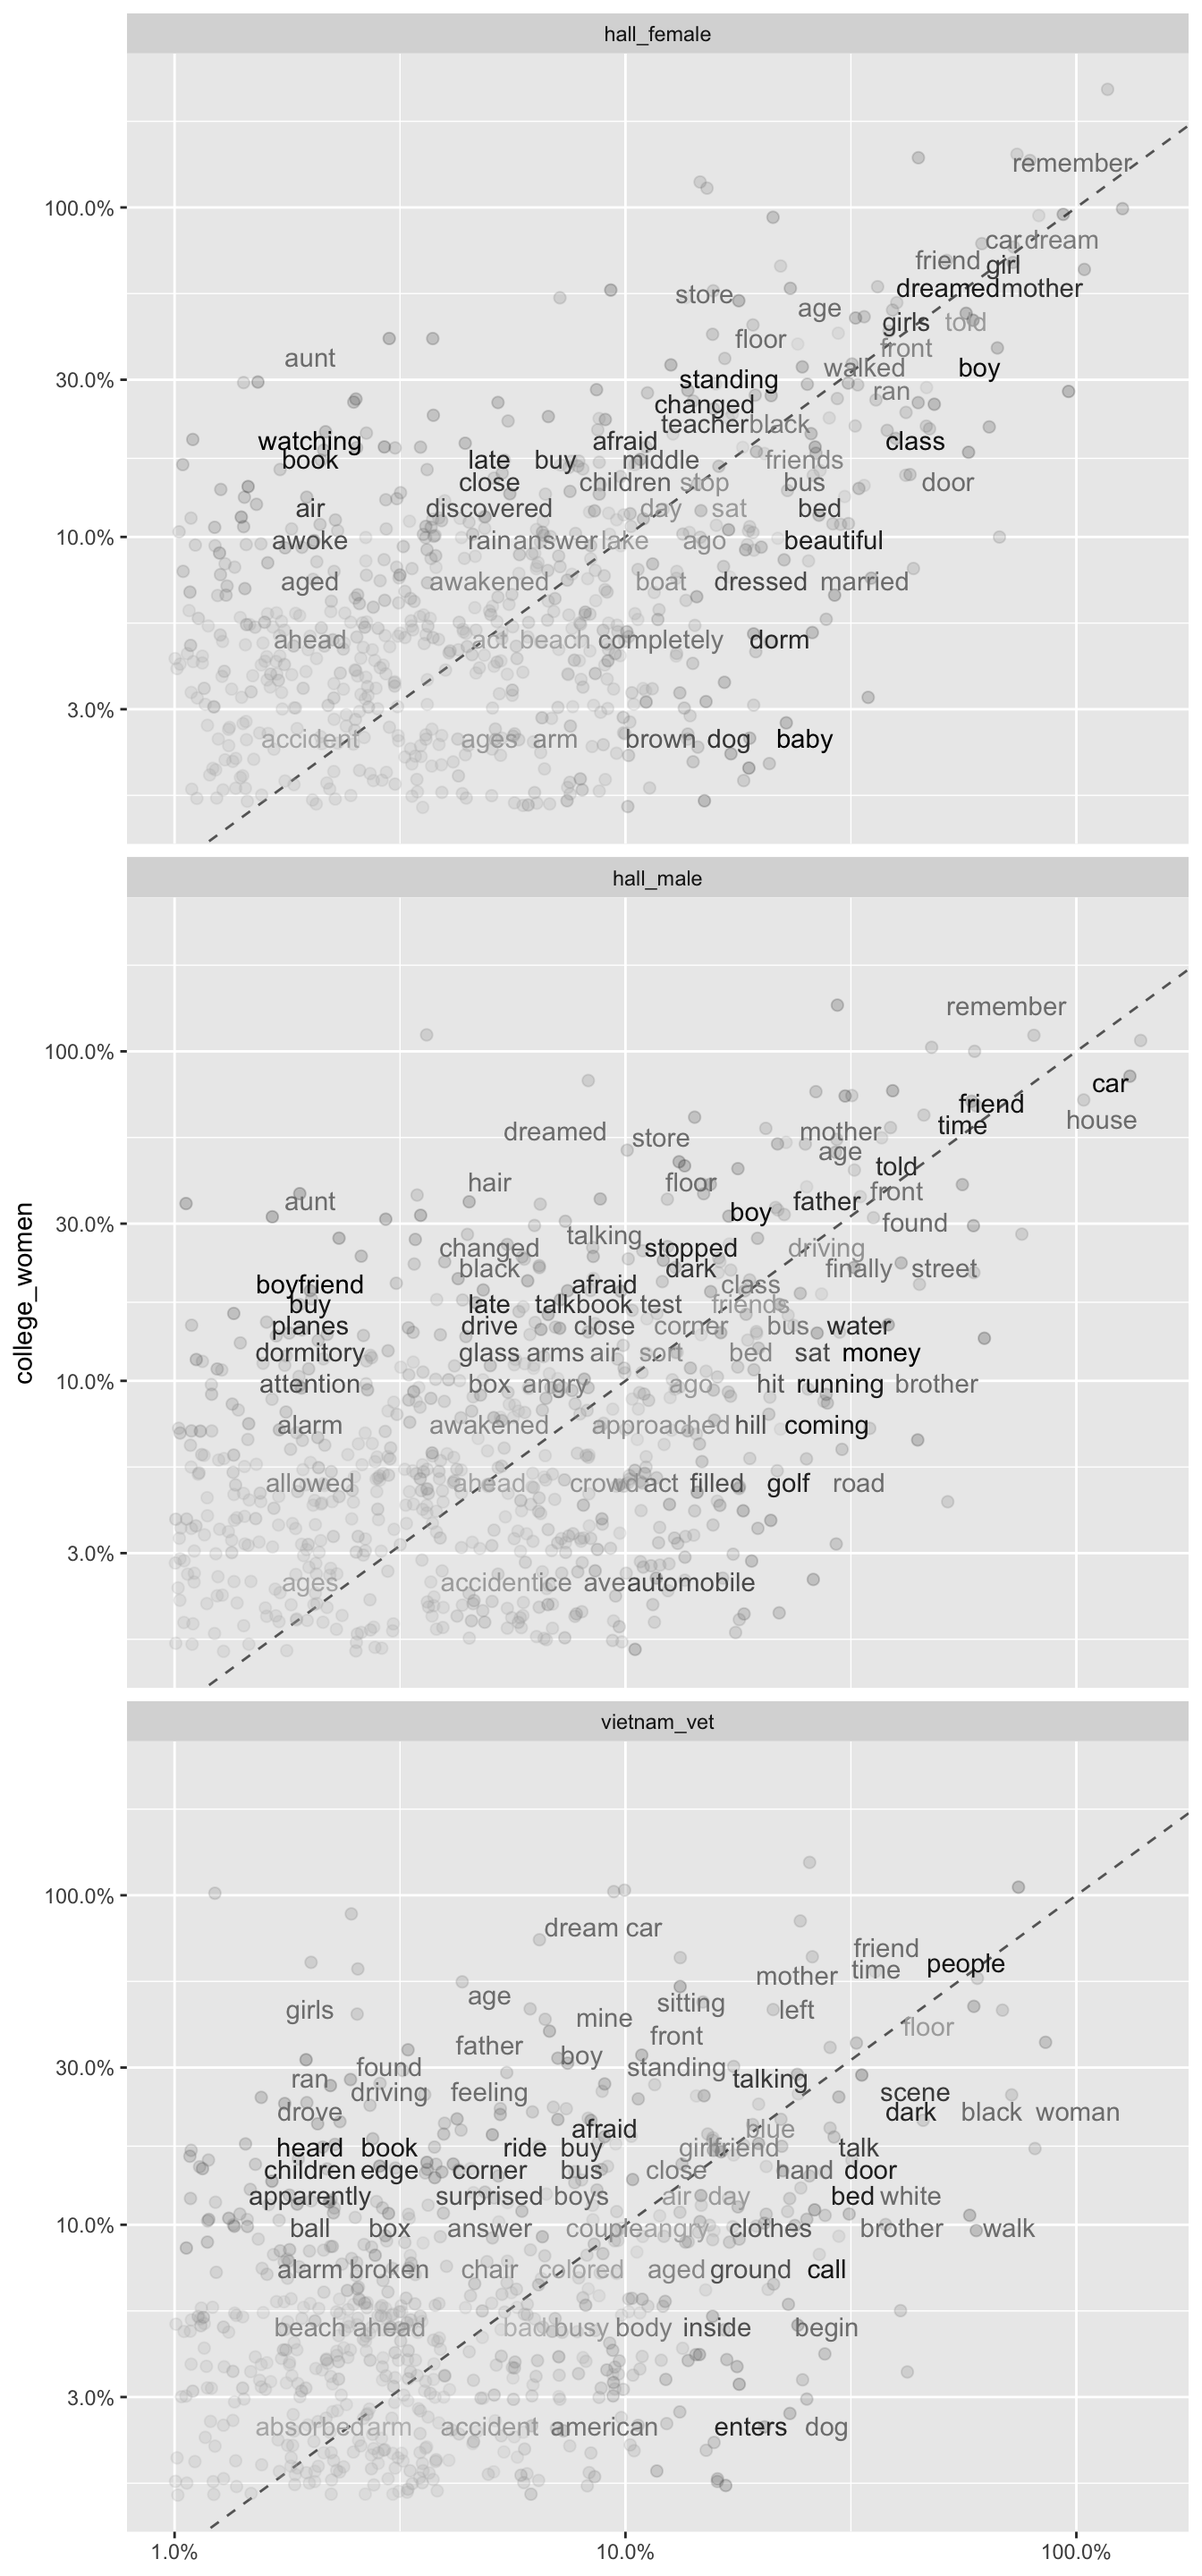
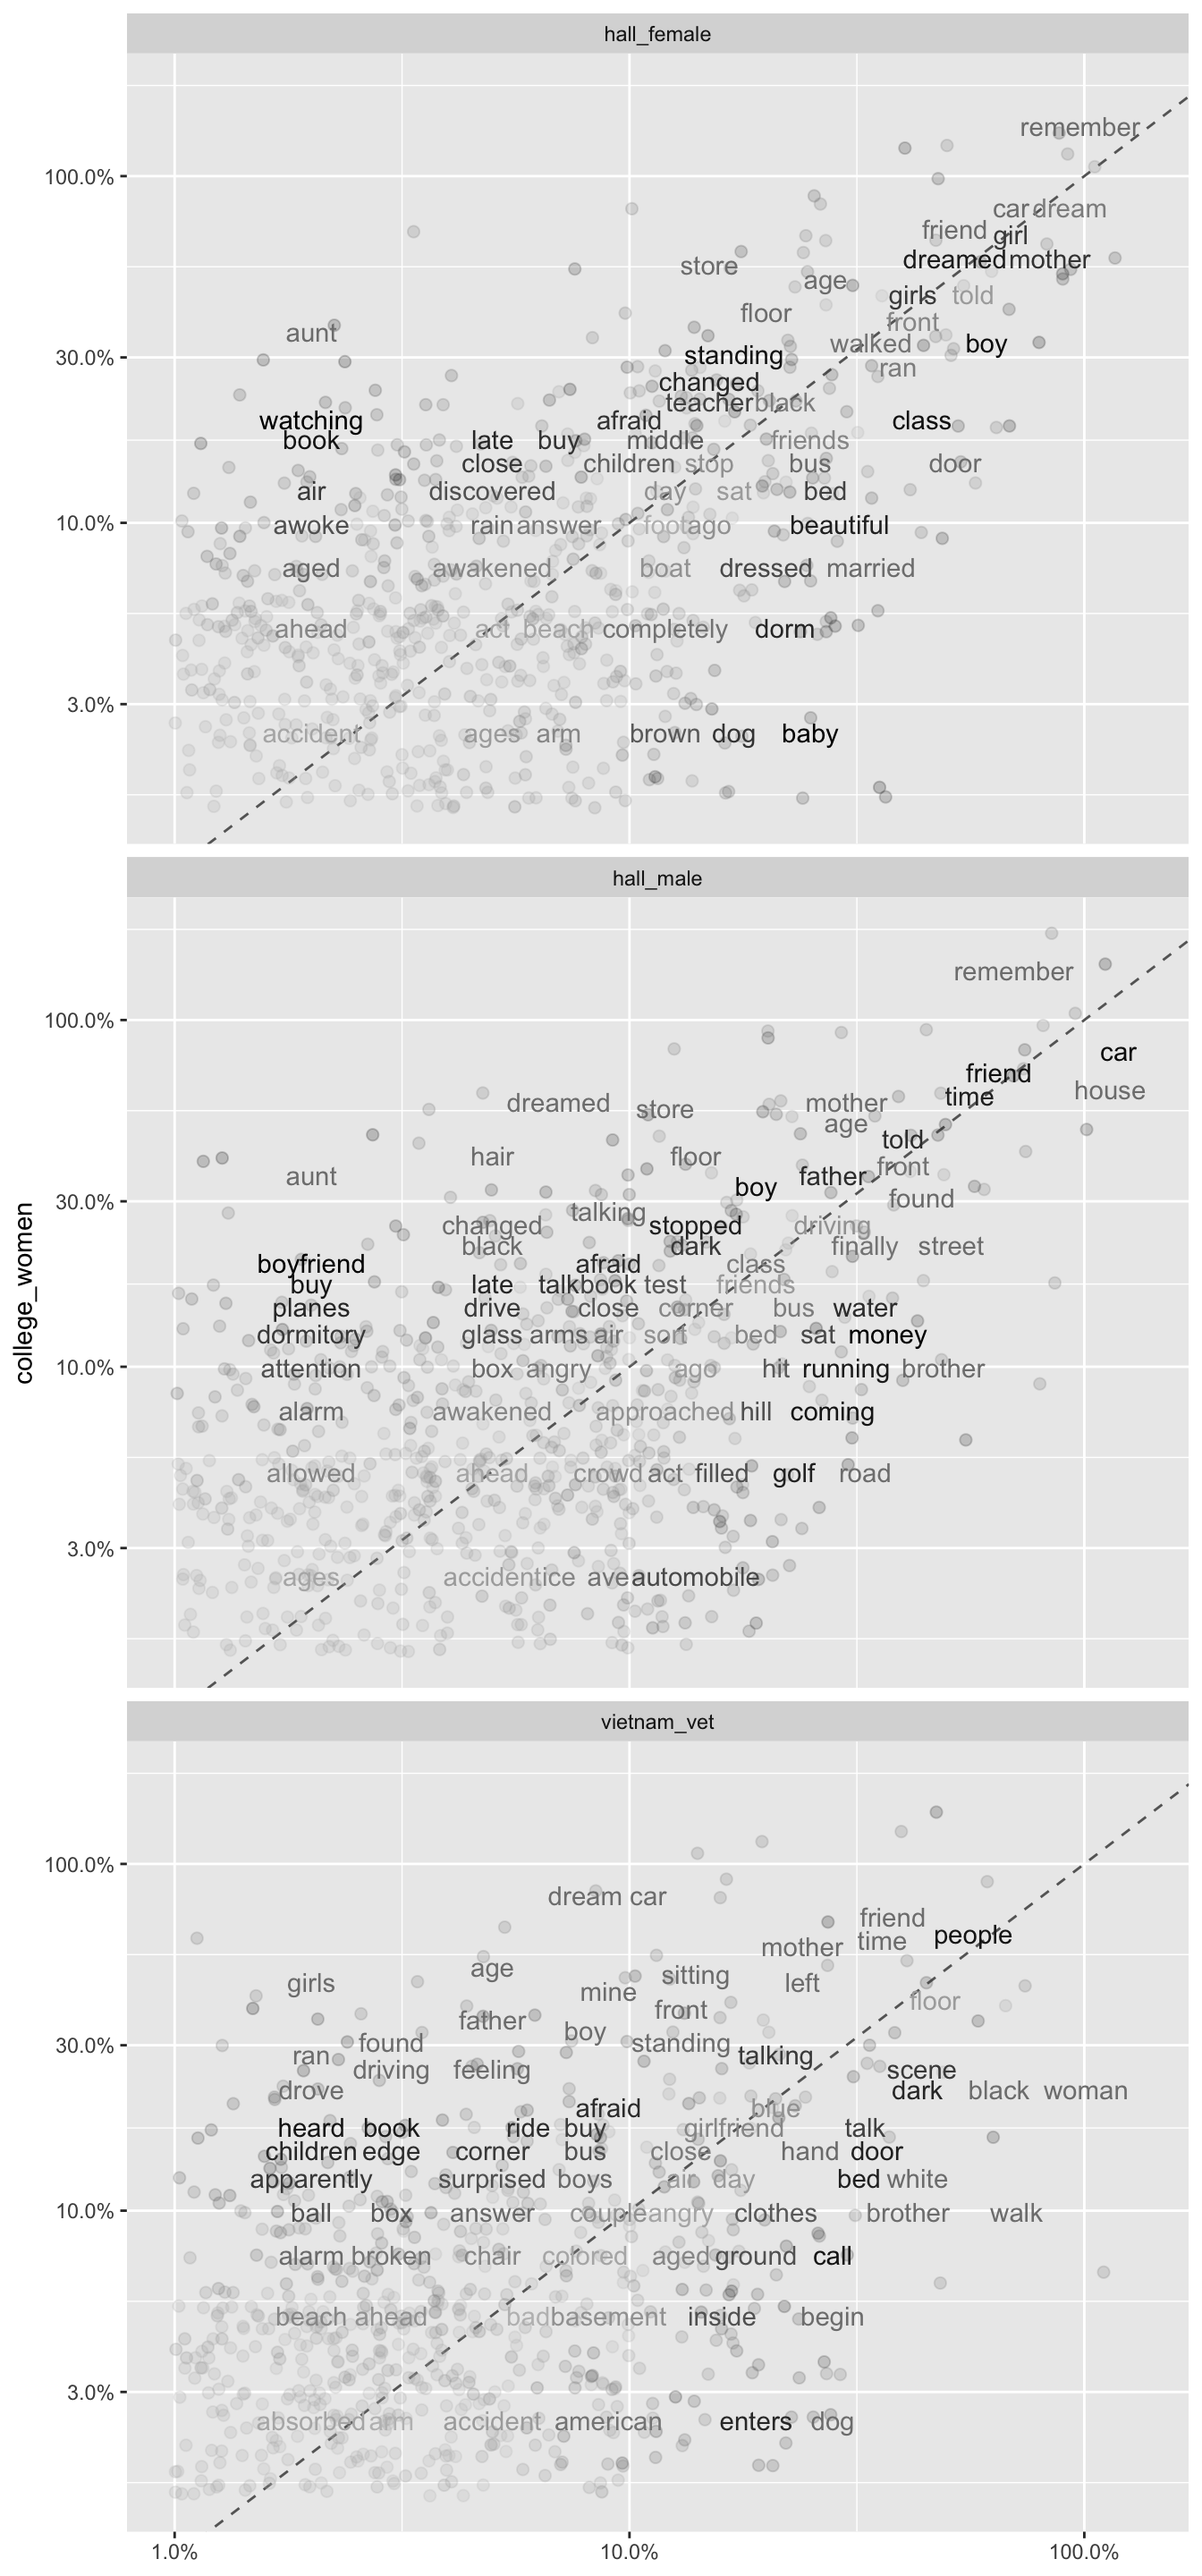
moved image to static folder

diff --git a/public/post/manipulating-text-data-from-dreams/index.html b/public/post/manipulating-text-data-from-dreams/index.html
@@ -547,17 +547,17 @@ df$sample &lt;- as.factor(df$sample)</code></pre>
 <pre class="r"><code>custom_view &lt;- function(x) data.frame(lapply(x, substr, 1, 56))
 car::some(df) %&gt;%
   custom_view()</code></pre>
-<pre><code>##           sample                                                    dream
-## 1  college_women I was standing with my family (mother &amp; father, ages 45 
-## 2  college_women This dream was a very disconnected one. It began when I 
-## 3    vietnam_vet I&#39;m in my old house on Highland Place. Outside, it&#39;s rai
-## 4    vietnam_vet I&#39;m an instructor at a civilian flight school, observing
-## 5    vietnam_vet In the country on a sunny day, I decide to walk down a s
-## 6    vietnam_vet I&#39;m in an enormous building, a sort of jail, with walls 
-## 7    vietnam_vet Having spent a long day at college, I&#39;m walking through 
-## 8    vietnam_vet I&#39;m in a small living room crowded with men who have gat
-## 9      hall_male We were walking down a path in a big forest when all of 
-## 10   hall_female I dreamed that Dean Dolan was explaining the constructio</code></pre>
+<pre><code>##         sample                                                    dream
+## 1  vietnam_vet I&#39;m sitting in an English garden with Donald Trump and h
+## 2  vietnam_vet At a summer day camp, I share a bunk with my brother&#39;s c
+## 3    hall_male I was being chased for what seemed a long time. At times
+## 4    hall_male I was having intercourse with my mother. She was relucta
+## 5    hall_male I dreamt that I was taking some kind of a test and there
+## 6    hall_male My baby cousin Betsie, an Army associate of mine, and I 
+## 7    hall_male I was lying in bed. My uncle came into the room. He said
+## 8    hall_male In this dream I was going to the cobbler to pick up some
+## 9  hall_female I dreamed that I was in a classroom about to take an exa
+## 10 hall_female I dreamt that I had become pregnant, although I wasn&#39;t m</code></pre>
 <p><img src="tidytext.png" width="25%" /></p>
 <p>Julia Silge and David Robinson’s book <strong>Text Mining with R - A tidy approach</strong> sets off at a cracking pace, at least for relatively newbies to R such as myself. They assumes a degree of familiarity with tidyverse concepts and when they introduce concepts such as tidytext format, they can sometimes address three or four steps in one example. I will unpack some of these as individual steps to illustrate what is going on, while using our dream data as the material for processing.</p>
 <p>At the moment our df only contains the sample name (a categorical variable with four values) and the text of the dream. It might be helpful to index the dreams before we tokenise the text in them. So let’s introduce a new variable that we will call dream_number. This will index each dream between 1 - 400 in the dataframe.</p>

diff --git a/public/post/using-tidytext-to-compare-samples-of-dreams/index.html b/public/post/using-tidytext-to-compare-samples-of-dreams/index.html
@@ -555,18 +555,18 @@ library(car)</code></pre>
   filter(!is.na(college_women) &amp; !is.na(hall_female) &amp; !is.na(hall_male) &amp; !is.na(vietnam_vet)) %&gt;%
   some()</code></pre>
 <pre><code>## # A tibble: 10 x 5
-##    word     college_women hall_female hall_male vietnam_vet
-##    &lt;chr&gt;            &lt;dbl&gt;       &lt;dbl&gt;     &lt;dbl&gt;       &lt;dbl&gt;
-##  1 college           0.12       0.07       0.07        0.16
-##  2 drive             0.18       0.05       0.05        0.08
-##  3 happy             0.06       0.290      0.14        0.13
-##  4 height            0.03       0.02       0.05        0.03
-##  5 miss              0.03       0.02       0.02        0.05
-##  6 reached           0.03       0.02       0.14        0.03
-##  7 street            0.27       0.34       0.51        0.28
-##  8 surprise          0.06       0.02       0.02        0.02
-##  9 time              0.73       0.59       0.56        0.36
-## 10 vacant            0.03       0.02       0.02        0.02</code></pre>
+##    word    college_women hall_female hall_male vietnam_vet
+##    &lt;chr&gt;           &lt;dbl&gt;       &lt;dbl&gt;     &lt;dbl&gt;       &lt;dbl&gt;
+##  1 afraid           0.24        0.1       0.09        0.09
+##  2 bicycle          0.03        0.05      0.09        0.03
+##  3 couple           0.12        0.02      0.07        0.09
+##  4 dressed          0.09        0.2       0.05        0.17
+##  5 late             0.21        0.05      0.05        0.03
+##  6 male             0.12        0.05      0.09        0.06
+##  7 police           0.03        0.07      0.23        0.11
+##  8 sun              0.03        0.05      0.02        0.02
+##  9 thin             0.09        0.02      0.02        0.16
+## 10 water            0.18        0.44      0.33        0.22</code></pre>
 <p>Then the next step is to decide which sample is going to be our reference sample. This will have its column of frequencies replicated and stacked so that each of the other samples can be compared with it. When we <em>gather()</em>, we only include the samples to compare with the reference and not the reference itself. For simplicity, we can use the first column in our df (college_women) as our reference group and compare the other three samples to this. We might predict at this point that the hall_women will have the most similar dreams and then the hall_men, with the vietnam_vet being the most different. We can check this prediction later on when we run some correlation coefficients.</p>
 <pre class="r"><code>df_gather &lt;- df_spread %&gt;%
   gather(sample, proportion, hall_female:vietnam_vet)</code></pre>
